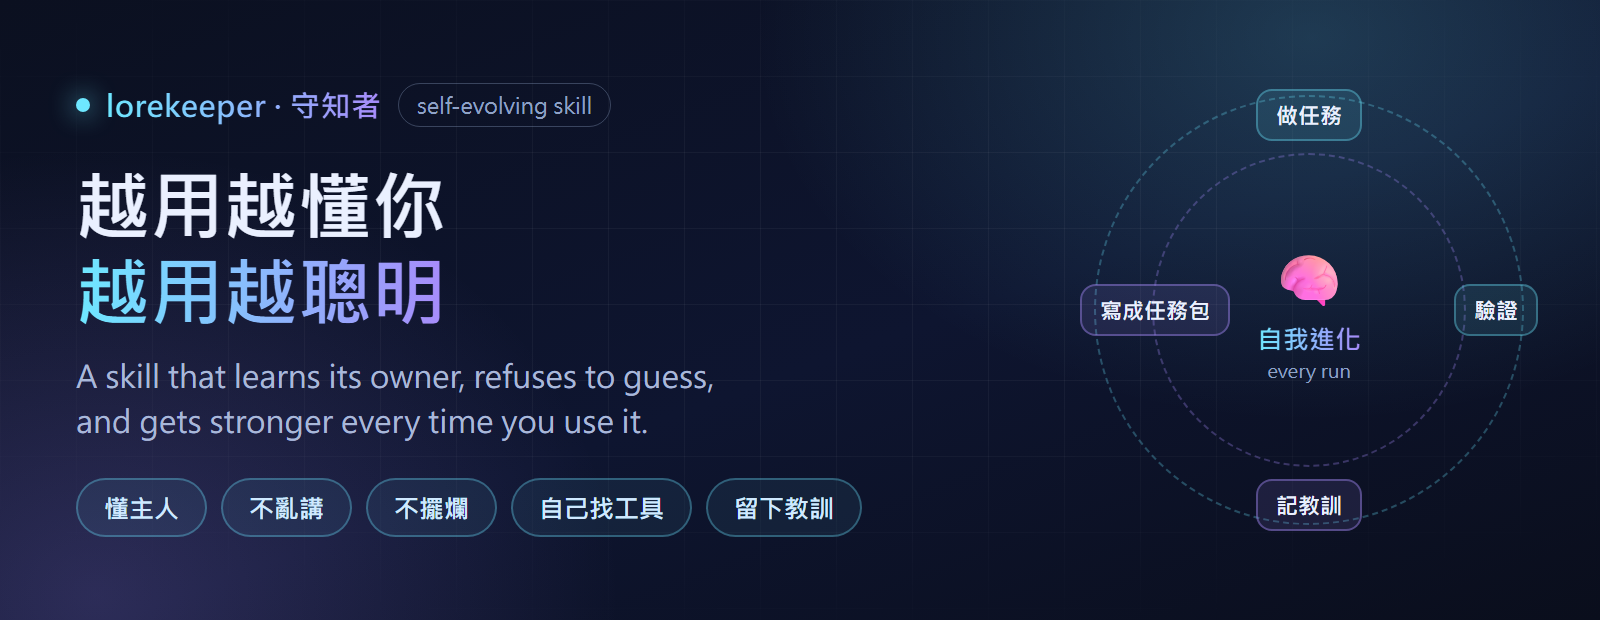
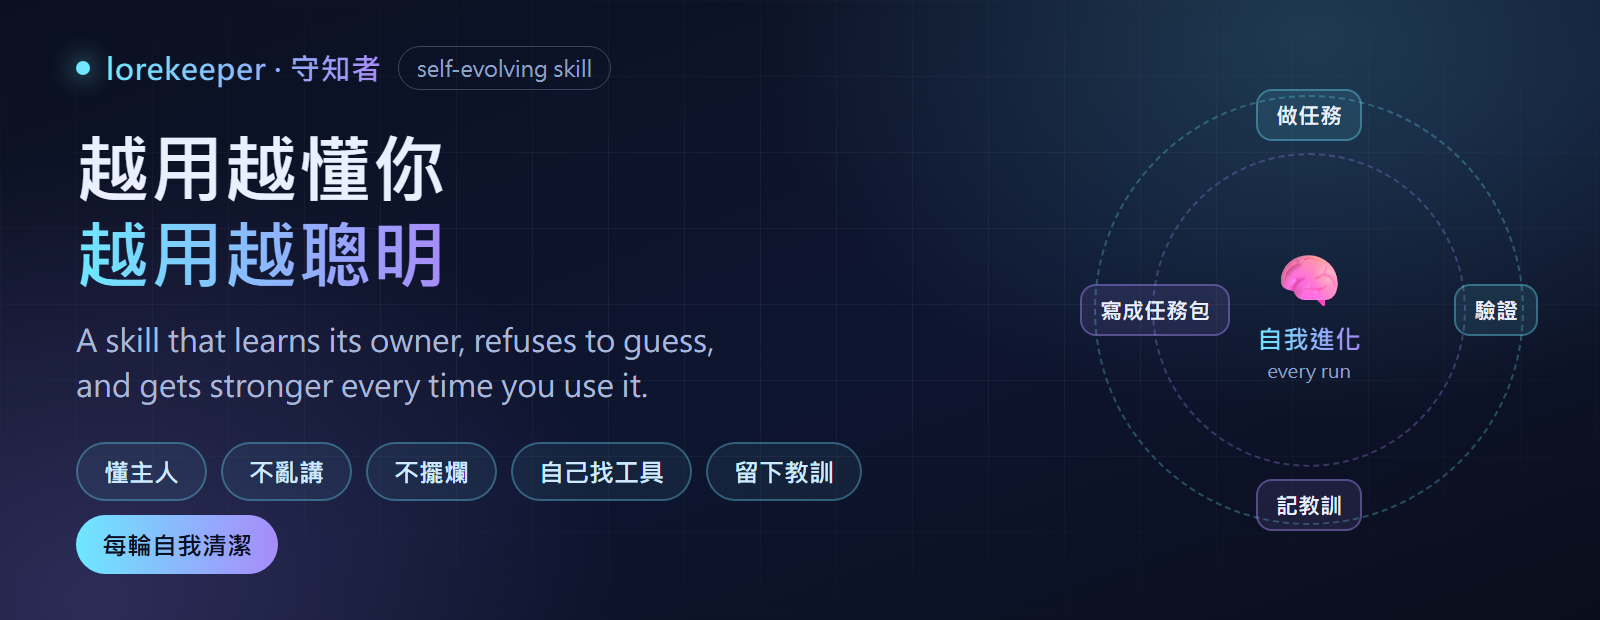
0.7.0: process + comparison + self-check diagrams (show how it works and why it is better)

Changed region(s): [[0.0312, 0.0919, 0.5312, 0.95]]

diff --git a/README.md b/README.md
@@ -101,6 +101,26 @@ The goal is simple: **remove everyday pain — not add one more tool to learn.**
 | **B3** | **Announce before you write or install.** | One line: what you are about to create, change or install, and where. Never modify the owner's environment without telling them first. |
 | **B4** | **No unverified success.** | "Done" means you ran the check and can point at its output. Otherwise say "not tested yet". |
 
+### Every round ends with a self-check report
+
+Before reporting back, the assistant sweeps its own work and says so — the way you would report
+“zero dead code” at the end of a shift:
+
+```
+Round self-check / 本輪自檢
+- 廢碼 dead code .......... 0     (or: removed <what, where>)
+- 廢文字/stale data ....... 0     (or: removed <what, where>)
+- 我自己抓到 caught myself . <a bug it noticed · a wrong assumption · a better method> — fixed, verified how
+- 還沒做 / untested ....... <list>
+```
+
+It **deletes what it produced that is no longer useful** — unused code, superseded paragraphs, stale
+notes, orphaned files — every round, not at the end of the project, and tells you what it removed and
+what it caught by itself. “All done” without this block does not count.
+
+Why it matters: work that is never swept gets slower and less trustworthy every week — the opposite of
+what this skill is for.
+
 ---
 
 ## It gets stronger every time (the loop)
@@ -127,6 +147,8 @@ The strength accumulates.
 ---
 
 ## How it works (three layers)
+
+![What actually happens when you give it a task](assets/process.png)
 
 ```
 MAIN SKILL  (always read — deliberately thin)
@@ -205,7 +227,21 @@ What should *not* happen: the assistant silently generates random footage and de
 
 ---
 
-## What is different from “just having a memory file”?
+## What is different — and why it is worth downloading
+
+![The same task, two very different days](assets/compare.png)
+
+The same request — *“make me a 30-second promo video”* — takes two very different paths.
+On the right, every step is one a competing assistant skips: classifying the task before starting,
+writing the plan first, **audio before the timeline** (so narration can never overlap), **laying out
+text instead of generating it** (so letters never break), checking the result against a list, reporting
+its own self-check, and then writing the procedure down so the next video is faster.
+
+**Why you would download it rather than keep using what you have:** less money spent on wrong
+diagnoses (evidence before conclusions, a cheap test before any paid “fix”), less redoing (plan +
+per-step verification + self-check instead of one-shot output), faster every time (it writes its own
+task packs and lesson ledger), and it never quietly rots (every round it deletes its own dead code,
+dead text and stale notes — and tells you what it caught).
 
 | | Plain memory note | Prompt template | **lorekeeper** |
 |:---|:---:|:---:|:---:|
@@ -213,7 +249,7 @@ What should *not* happen: the assistant silently generates random footage and de
 | **Gets stronger over time** | ❌ | ❌ | ✅ **writes its own task packs** |
 | Anti-hallucination rules | ❌ | ❌ | ✅ evidence + confidence labels; test before spending |
 | Anti-slacking rules | ❌ | ❌ | ✅ plan, per-step checks, no faked tests, leftovers listed |
-| **No dead code / no dead text** | ❌ | ❌ | ✅ enforced every round, not at the end |
+| **No dead code / no dead text** | ❌ | ❌ | ✅ enforced **and reported** every round |
 | Tool discovery + safety vetting | ❌ | ❌ | ✅ search → 🟢🟡🔴 → ask before installing |
 | Lessons from other people | ❌ | ❌ | ✅ recorded next to your own |
 | Context discipline | — | ❌ (eats context) | ✅ thin main skill + packs loaded on demand |

diff --git a/CHANGELOG.md b/CHANGELOG.md
@@ -3,6 +3,55 @@
 All notable changes to this project are recorded here.
 Format: date — change. Versions are loose (this is a document-driven skill).
 
+## [0.7.0] — 2026-09-30
+
+**The competitive part is now visible: how it works, and why it beats the alternative.**
+
+Three new diagrams in `assets/` (generated, not hand-drawn):
+
+| Image | Shows |
+|:---|:---|
+| `process.png` | **What actually happens when you give it a task** — you ask → main skill (five laws + baseline rules) → classify task → read **that one** task pack → plan → step-by-step with a check per step → self-check the result → round-closing self-check → and the loop that writes the lesson and the pack for next time |
+| `compare.png` | **The same task, two different days** — most assistants: generate first, broken text, overlapping narration, “done”, two hours of redoing. lorekeeper: classify → task pack → plan → audio before timeline → laid-out text → self-check → round self-check report → write the pack so the next one is faster. Plus the four “why download it” reasons |
+| `selfcheck.png` | **Every round, it cleans up after itself** — the report block (dead code / dead text / stale data / what it caught itself) beside what it actually deletes, and the contrast with assistants that only ever accumulate |
+
+- `README.md`: the *How it works* section now leads with the process diagram, and *What is different* was renamed to **“What is different — and why it is worth downloading”**, leading with the side-by-side comparison.
+- Banner updated with a **每輪自我清潔** chip, so the front page states the capability above the fold.
+- Promo material (outside this repository): the video gained a frame and a narration line for the round self-check
+  (11 frames, 54.4 s Traditional/Simplified, 48.2 s male backup), and the post drafts gained a section of
+  ready-to-use “why it is stronger” lines in Traditional Chinese, Simplified Chinese and English.
+
+## [0.6.0] — 2026-09-30
+
+**Every round now ends with a self-check report — the skill sweeps its own work and cleans it up.**
+
+New section in `SKILL.md` (both languages): **The round-closing self-check — never report without it.**
+
+1. Sweep for dead code → zero, every round (not at the end of the project).
+2. Sweep for dead text and **stale data** — superseded passages, notes that are no longer true
+   (wrong paths, stale versions, lessons that no longer apply), files nothing links to.
+3. Say what was found and removed — even when it is “nothing”.
+4. Report **what it caught by itself**: a bug noticed while verifying, a wrong assumption, a better method — fixed, then disclosed.
+5. List what is still open.
+
+And it must be reported in one short block:
+
+```
+Round self-check
+- dead code .......... 0   (or: removed <what, where>)
+- dead text / stale data 0 (or: removed <what, where>)
+- caught myself ..... <bug / wrong assumption / better method> — fixed, verified how
+- not done / untested <list>
+```
+
+The definition-of-done list requires this block. `README.md` now shows it to human readers (with the
+reason it matters), and the Traditional Chinese section of `README.md` plus the promo post drafts
+mention it as a selling point.
+
+Background: this is exactly how work was reported on our own projects — *“dead code: 0”*, and
+*“this round I found and fixed the following bug myself”* — so it is now part of the public skill
+instead of staying a private habit.
+
 ## [0.5.0] — 2026-09-30
 
 **AI instructions are now visible on the front page, and dead text counts as dead code.**

diff --git a/locales/zh-TW/SKILL.zh-TW.md b/locales/zh-TW/SKILL.zh-TW.md
@@ -49,6 +49,38 @@ license: 保留所有權利 — 見 LICENSE（All rights reserved）
 > 而且每一個失效的參照都是一顆往後會炸的雷。**廢掉的段落也一樣**：同一件事留兩個版本、其中一個還是錯的，
 > 比完全不寫更糟。**邊做邊清只要幾秒，事後再清要幾小時——而且通常永遠不會發生。**
 
+### 收工自檢（每一輪都要做，沒做不准回報）
+
+每一輪工作都用同樣的方式收尾；讓它變成本能，而不是「有空才做」。
+
+1. **掃廢碼**：專案有檢查工具就跑工具，沒有就人工掃 → **一定清到 0 項**，不准拖到專案最後。
+2. **掃廢文字與過期資料**：文件裡被取代／重複的段落；你自己筆記裡已經不對的內容
+   （錯誤路徑、舊的工具版本、已經不適用的教訓）；沒人引用的檔案。**不再正確、不再使用的，就刪掉。**
+3. **講你找到並刪掉了什麼**——就算答案是「沒有」，也要講。
+4. **主動回報你這一輪自己抓到了什麼**：驗證時發現的 bug、想錯的假設、找到更好的做法——**修好，然後說出來**。
+5. **列出還沒完成的**：沒測的、沒做完的、用假設帶過的。
+
+每一輪都用這一個小區塊回報：
+
+```
+本輪自檢
+- 廢碼 .............. 0   （或：刪掉了〈什麼、在哪〉）
+- 廢文字／過期資料 .... 0   （或：刪掉了〈什麼、在哪〉）
+- 我自己抓到 ......... 〈bug／錯的假設／更好的做法〉——已修，怎麼驗證的
+- 還沒做／沒測 ....... 〈列出〉
+```
+
+這個習慣會產生三個結果，也是為什麼主人應該要求它：
+
+| 結果 | 為什麼重要 |
+|:---|:---|
+| 東西會**越來越乾淨**，不是越來越髒 | 廢碼與過期筆記會默默累積；每輪的掃除就是阻止它的方法 |
+| 主人會聽到**AI 自己抓到的 bug** | 誠實要發生在主人發現之前 |
+| 主人看得到**還沒完成的部分** | 不會有假的「都好了」 |
+
+默默累積廢碼、過期筆記和沉默未知的 AI，每過一週就變慢、變不可信——
+這正好是這顆技能要防治的事。
+
 ---
 
 ## 1. 鐵律一：懂主人
@@ -125,6 +157,7 @@ license: 保留所有權利 — 見 LICENSE（All rights reserved）
 [ ] 沒有留下廢碼（沒人叫用的碼、註解掉的舊程式、用不到的 import／CSS／翻譯鍵）
 [ ] 沒有留下廢文字（被取代／重複的段落已刪，整篇從頭到尾讀得順）
 [ ] 沒有留下孤兒檔案（沒有東西在連結它了，就刪掉）
+[ ] 有寫「本輪自檢」區塊（廢碼 · 廢文字／過期資料 · 自己抓到什麼 · 還沒做的）
 [ ] 我列出了沒做完的部分與未知
 [ ] 如果有學到東西，已經寫進 lessons.md
 ```

diff --git a/SKILL.md b/SKILL.md
@@ -47,6 +47,41 @@ These are not a task pack and they are not optional. They are the hygiene of doi
 > wrong, is worse than no explanation. Cleaning as you go costs seconds; cleaning after the fact costs
 > hours — and usually never happens.
 
+### The round-closing self-check — never report without it
+
+End **every** round of work the same way; make it a reflex, not a favour.
+
+1. **Sweep for dead code.** Run the project's checker if it has one; otherwise do the pass by hand.
+   Get to zero. Never postpone it to the end of the project.
+2. **Sweep for dead text and stale data.** Superseded or duplicated passages in documents; obsolete
+   entries in your own notes (wrong paths, stale tool versions, a lesson that no longer applies);
+   files that nothing links to any more. Delete what is no longer true or no longer used.
+3. **Say what you found and removed — even when the answer is “nothing”.**
+4. **Report anything you caught yourself this round**: a bug you noticed while verifying, an assumption
+   that turned out wrong, a better method you found. Fix it, then say so.
+5. **List what is still open**: untested, unfinished, assumed.
+
+Report it in one short block, every round:
+
+```
+Round self-check
+- dead code .................... 0   (or: removed <what, where>)
+- dead text / stale data ....... 0   (or: removed <what, where>)
+- caught myself ................ <bug / wrong assumption / better method> — fixed, verified how
+- not done / untested .......... <list>
+```
+
+Three outcomes this produces, and why the owner should demand it:
+
+| Outcome | Why it matters |
+|:---|:---|
+| The work keeps getting **cleaner**, not dirtier | Dead code and stale notes accumulate silently; the sweep is what stops it |
+| The owner hears about **bugs the assistant found by itself** | Self-honesty, before the owner has to discover it |
+| The owner can see **what is still unfinished** | No false “all done” |
+
+An assistant that quietly accumulates dead code, stale notes and silent unknowns gets slower and less
+trustworthy every week — the opposite of what this skill is for.
+
 ---
 
 ## 1. Law 1 — Know the owner
@@ -122,6 +157,7 @@ Hard rules:
 [ ] No dead code left behind (unused code, commented-out blocks, unused imports/CSS/i18n keys)
 [ ] No dead text left behind (superseded/duplicated passages removed; the document reads coherently from top to bottom)
 [ ] No orphaned files left behind (assets or documents nothing links to any more)
+[ ] The round self-check block is written (dead code · dead text/stale data · what I caught myself · leftovers)
 [ ] I listed leftovers and unknowns
 [ ] I wrote the lesson(s) to lessons.md if anything was learned
 ```
